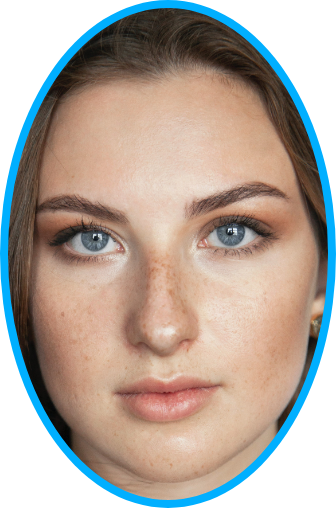
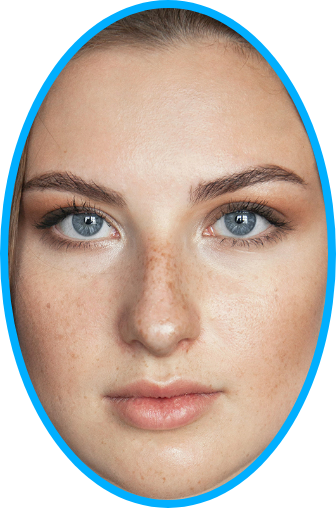
FV Instructions: * Updated instruction image * Improved styles & adjusted for screen sizes

diff --git a/src/components/dashboard/FaceVerification/components/Instructions.js b/src/components/dashboard/FaceVerification/components/Instructions.js
@@ -9,6 +9,7 @@ import { CustomButton, Section, Wrapper } from '../../../common'
 
 // utils
 import { getDesignRelativeHeight, getDesignRelativeWidth } from '../../../../lib/utils/sizes'
+import normalize from '../../../../lib/utils/normalizeText'
 import { withStyles } from '../../../../lib/styles'
 import { isBrowser } from '../../../../lib/utils/platform'
 import { isLargeDevice } from '../../../../lib/utils/mobileSizeDetect'
@@ -20,17 +21,28 @@ if (Platform.OS === 'web') {
   Image.prefetch(illustration)
 }
 
+const Dot = ({ style }) => <Text style={style}>• </Text>
+
 const Instructions = ({ styles, onDismiss = noop }) => (
   <Wrapper>
     <Section style={styles.topContainer} grow>
       <View style={styles.mainContent}>
         <Image source={illustration} resizeMode="contain" style={styles.illustration} />
-        <View>
-          <Text textAlign="center" style={styles.descriptionContainer}>
-            <Text style={[styles.text]}>{`• Hold Your Camera at Eye Level\n`}</Text>
-            <Text style={[styles.text]}>{`• Light Your Face Evenly\n`}</Text>
-            <Text style={[styles.text]}>{`• Avoid Smiling & Back Light\n`}</Text>
-          </Text>
+        <View style={styles.descriptionContainer}>
+          <View>
+            <Text style={styles.text}>
+              <Dot style={styles.listDot} />
+              Hold Your Camera at Eye Level
+            </Text>
+            <Text style={styles.text}>
+              <Dot style={styles.listDot} />
+              Light Your Face Evenly
+            </Text>
+            <Text style={styles.text}>
+              <Dot style={styles.listDot} />
+              Avoid Smiling & Back Light
+            </Text>
+          </View>
         </View>
         <CustomButton style={[styles.button]} onPress={onDismiss}>
           GOT IT
@@ -57,28 +69,31 @@ const getStylesFromProps = ({ theme }) => ({
   mainContent: {
     flexGrow: 1,
     justifyContent: 'space-between',
-    paddingLeft: getDesignRelativeWidth(theme.sizes.default * 3),
-    paddingRight: getDesignRelativeWidth(theme.sizes.default * 3),
     width: '100%',
   },
   illustration: {
     marginTop: getDesignRelativeHeight(18),
-    marginBottom: getDesignRelativeHeight(18),
-    height: getDesignRelativeWidth(isBrowser ? 220 : 180),
+    height: getDesignRelativeHeight(254, false),
     width: '100%',
   },
   descriptionContainer: {
     paddingHorizontal: getDesignRelativeHeight(theme.sizes.defaultHalf),
     paddingVertical: getDesignRelativeHeight(isBrowser ? theme.sizes.defaultDouble : 14),
+    alignItems: 'center',
   },
   button: {
     width: '100%',
   },
   text: {
-    textAlign: 'center',
+    textAlign: 'left',
     color: 'primary',
-    fontSize: isLargeDevice ? 18 : 16,
-    lineHeight: 25,
+    fontSize: normalize(isLargeDevice ? 22 : 20),
+    lineHeight: isLargeDevice ? 36 : 34,
+  },
+  listDot: {
+    color: theme.colors.primary,
+    fontSize: 'inherit',
+    fontWeight: 'bold',
   },
 })
 
